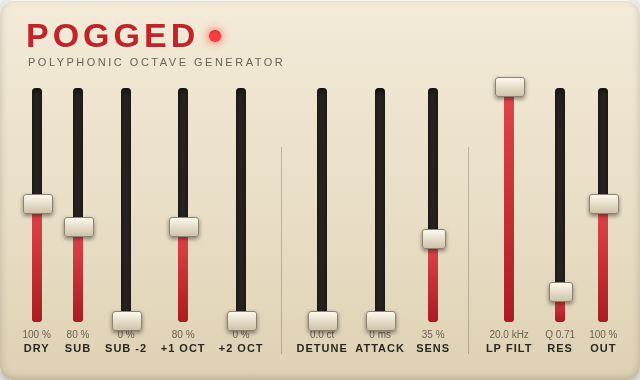
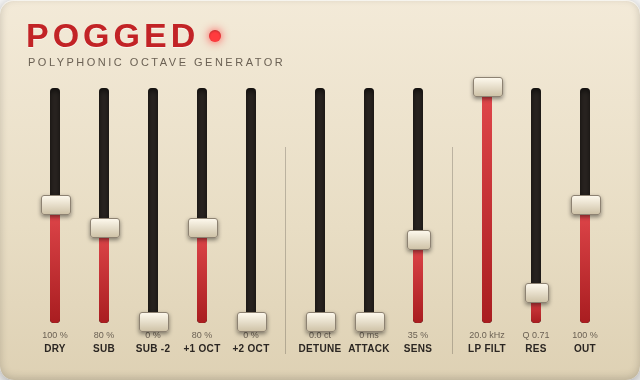
modgui: even fader spacing
The fader row overflowed its 592px board (scrollWidth 594), so flex-shrink
was active on every fader — and since a flex item cannot shrink below its
min-width:auto (= min-content), each column collapsed to the width of its own
nowrap label: RES 25.6px, +1 OCT 44px. The gap was a uniform 14px throughout;
the columns were what varied, so the track pitch wandered between 42 and 58px
inside a single group.

Pin each column with flex:0 0 38px + min-width:0 so label text can never drive
the layout, and size the label/value typography down (11->10px, letter-spacing
1->0.3px) so eleven columns genuinely fit. Labels now overflow their column,
centred, without reaching the neighbour (widest is DETUNE at 42.9px < 49px
pitch). .pogged-fader-small keeps its narrower cap but no longer changes the
column width, which was itself a source of uneven pitch.

Measured: all columns 38px, scrollWidth == 592 (no shrink), pitch a uniform
49.0px, 69.0px only across the two group separators. Screenshots regenerated.

Claude-Session: https://claude.ai/code/session_01TXt9V8JkMVi3PpAkRzEYuv

Changed region(s): [[0.0312, 0.2026, 0.9688, 0.9263], [0.4688, 0.2316, 0.5312, 0.2605]]

diff --git a/pogged.lv2/modgui/stylesheet-pogged.css b/pogged.lv2/modgui/stylesheet-pogged.css
@@ -70,7 +70,7 @@
     align-items: flex-end;
     bottom: 26px;
     display: flex;
-    gap: 14px;
+    gap: 11px;
     justify-content: center;
     left: 24px;
     position: absolute;
@@ -84,15 +84,23 @@
     margin: 0 4px;
 }
 
+/* Every fader is one fixed-width column, so the tracks are evenly spaced.
+   flex:0 0 + min-width:0 are both load-bearing: a flex item defaults to
+   min-width:auto and so cannot shrink below its own min-content width, which
+   for these nowrap labels means each column would otherwise be as wide as its
+   longest label ("RES" 26px vs "+1 OCT" 45px) and the pitch would wander.
+   Labels/values overflow this box, centred — the typography below is sized so
+   they never reach the neighbouring column. */
 .pogged-panel{{{cns}}} .pogged-fader {
     align-items: center;
     cursor: ns-resize;
     display: flex;
+    flex: 0 0 38px;
     flex-direction: column;
     height: 100%;
-    width: 44px;
+    min-width: 0;
+    width: 38px;
 }
-.pogged-panel{{{cns}}} .pogged-fader-small { width: 34px; }
 
 /* Track: dark slot; fill rises with the value; cap rides on top of it. */
 .pogged-panel{{{cns}}} .pogged-fader-track {
@@ -131,16 +139,16 @@
 
 .pogged-panel{{{cns}}} .pogged-fader-value {
     color: #6b6154;
-    font-size: 10px;
+    font-size: 9px;
     margin-top: 7px;
     min-height: 12px;
     white-space: nowrap;
 }
 .pogged-panel{{{cns}}} .pogged-fader-label {
     color: #2b2622;
-    font-size: 11px;
+    font-size: 10px;
     font-weight: 700;
-    letter-spacing: 1px;
+    letter-spacing: 0.3px;
     margin-top: 1px;
     white-space: nowrap;
 }
